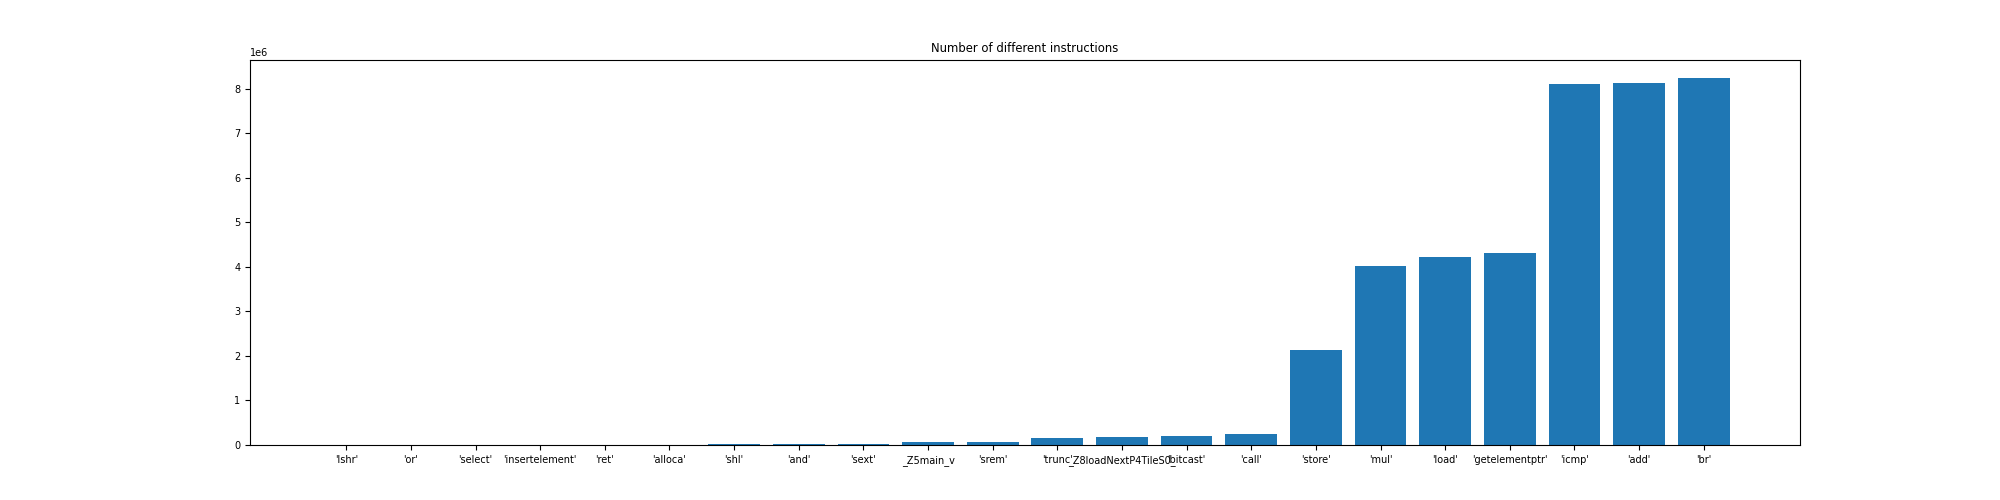
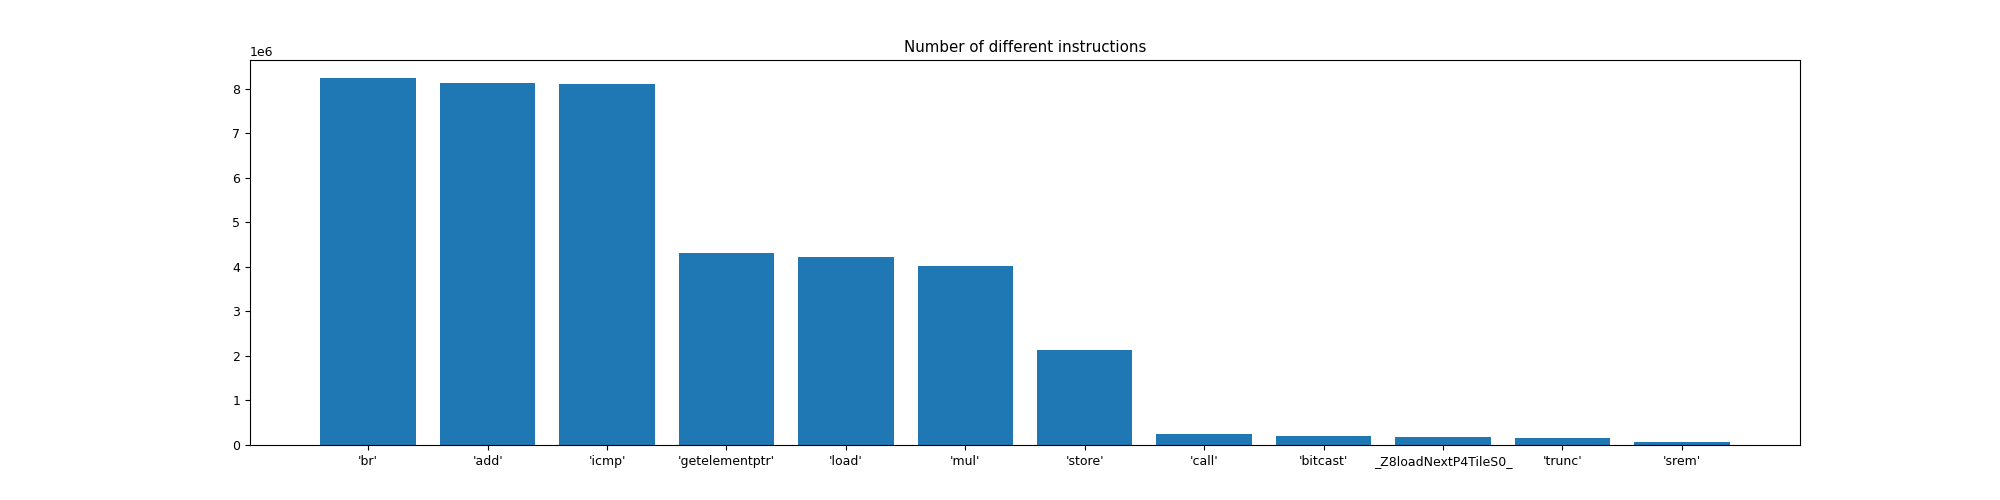
Triple instructions

Changed region(s): [[0.155, 0.15, 0.868, 0.93], [0.465, 0.06, 0.589, 0.12], [0.124, 0.09, 0.155, 0.12]]

diff --git a/MyProfiler/compute_stat.py b/MyProfiler/compute_stat.py
@@ -11,7 +11,7 @@ def generateDict(fileName):
             infoDict[line[1]] += 1
         else:
             infoDict[line[1]] = 1
-    return dict(sorted(infoDict.items(), key=lambda item: item[1]))
+    return dict(sorted(infoDict.items(), key=lambda item: item[1], reverse=True)[:12])
 
 
 def generateDictBy2(fileName):
@@ -56,16 +56,18 @@ def main() -> int:
         os.chdir("build")
         os.system("rm" + logfile)
         os.system("make run_Atoms_log")
+        os.chdir("..")
+        logfile = "build/" + logfile
 
     plt.rcParams.update({'font.size': 9})
     plt.figure(figsize=[20, 5], dpi=100)
 
-    table = generateDictBy3(logfile)
+    table = generateDict(logfile)
     print(table)
     plt.title("Number of different instructions")
     plt.bar(table.keys(), table.values())
     # plt.show()
-    plt.savefig('MyProfiler/resources/StatsTriple.png')
+    plt.savefig('MyProfiler/resources/Stats.png')
     return 0
 
 

diff --git a/README.md b/README.md
@@ -14,6 +14,8 @@ The result should be like above:
 <img src="Atoms/resources/Atoms.gif" width="370"/>
 
 ## main_ statistic:
+There is frequency statistic of instructions grouped 1, 2 and 3 in a row.
+
 In order to calculate statistic run it from the project dir:
 
 ```shell
